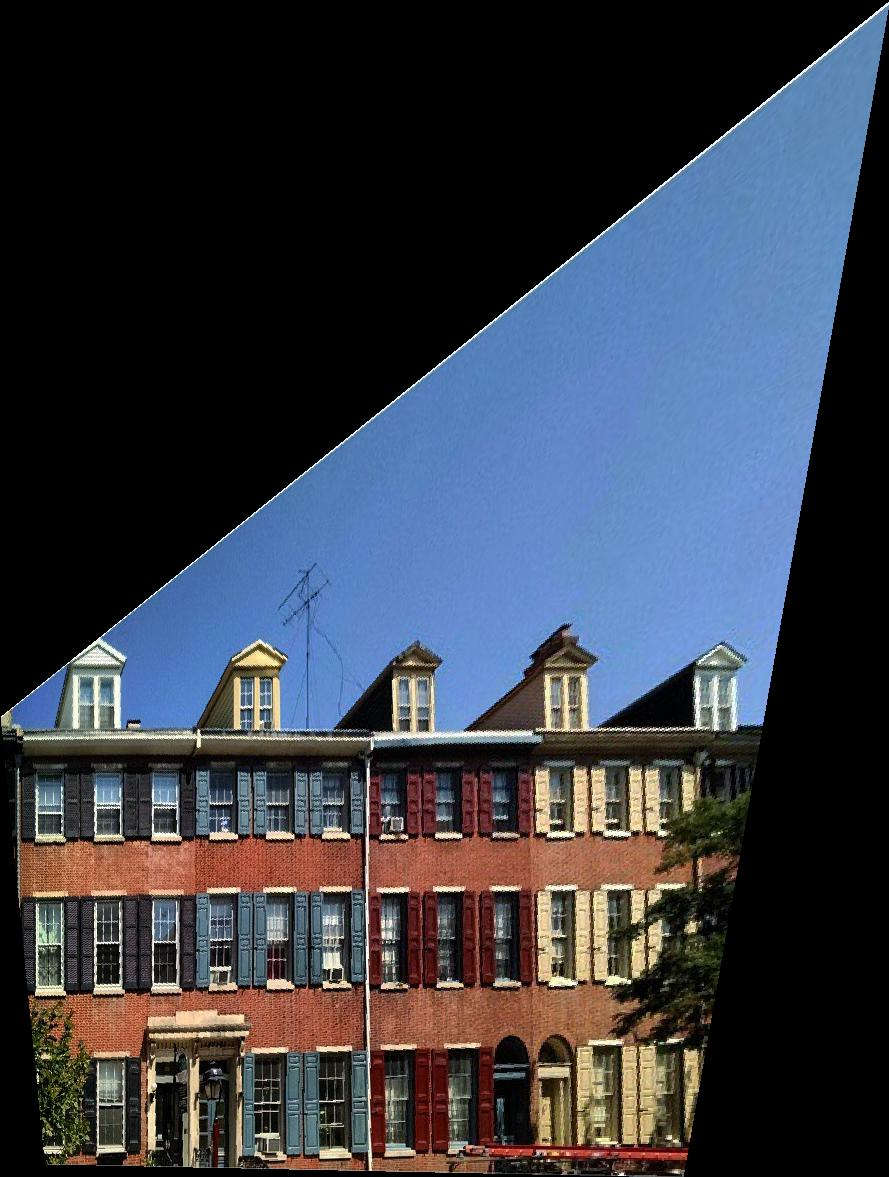
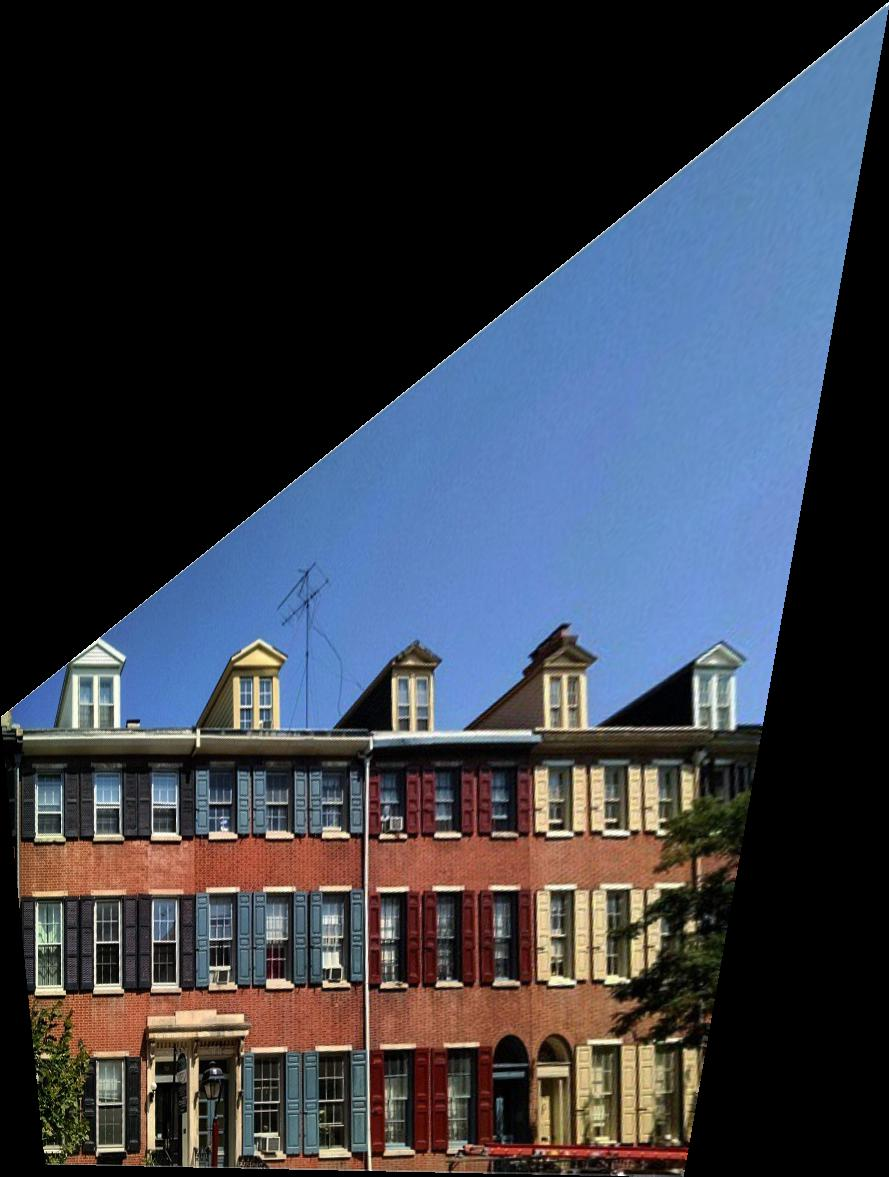
HW2 # Bilinear interpolation

Changed region(s): [[0.0, 0.52, 0.8504, 1.0], [0.3341, 0.4894, 0.3645, 0.52]]

diff --git a/HW2/hw2.py b/HW2/hw2.py
@@ -94,17 +94,26 @@ def bilinear_interp(image, point):
     Returns:
         A 3-dimensional numpy array representing the pixel value interpolated by "point".
     """
-    pass
     # TODO: extract x and y from point
+    y, x = point
 
     # TODO: Compute i,j as the integer parts of x, y
+    i = np.int(x)
+    j = np.int(y)
 
     # TODO: check that i + 1 and j + 1 are within range of the image. if not, just return the pixel at i, j
+    # print(image.shape)
+    # print(x,i, y, j)
+    if i + 1 >= image.shape[0] or j + 1 >= image.shape[1]:
+        return image[i, j]
 
     # TODO: Compute a and b as the floating point parts of x, y
+    a = x - i
+    b = y - j
 
     # TODO: Take a linear combination of the four points weighted according to the inverse area around them
     # (i.e., the formula for bilinear interpolation)
+    return (1-a)*(1-b)*image[i,j] +a*(1-b)*image[i+1, j] +a*b*image[i+1, j+1] + (1-a)*b*image[i,j+1]
 
 
 def apply_homography(H, points):
@@ -119,7 +128,6 @@ def apply_homography(H, points):
     Returns:
         An Nx2 matrix of points that are the result of applying H to points.
     """
-    pass
 
     # TODO: First, transform the points to homogenous coordinates by adding a `1`
     # homogenous_points 
@@ -154,7 +162,7 @@ def warp_homography(source, target_shape, Hinv):
             p = apply_homography(Hinv, np.array([[x, y]]))[0]
             # TODO: check if the homography result is outside the source image. If so, move on to next pixel.
             if p[0] >= 0 and p[0] <= source.shape[0] and p[1] >= 0 and p[1] <= source.shape[1]:
-                result[x, y] = source[np.int(p[0]), np.int(p[1])]
+                result[x, y] = bilinear_interp(source, (p[1], p[0])) # source[np.int(p[0]), np.int(p[1])]
             # TODO: Otherwise, set the pixel at this location to the bilinear interpolation result.
     # return the output image
     return result
